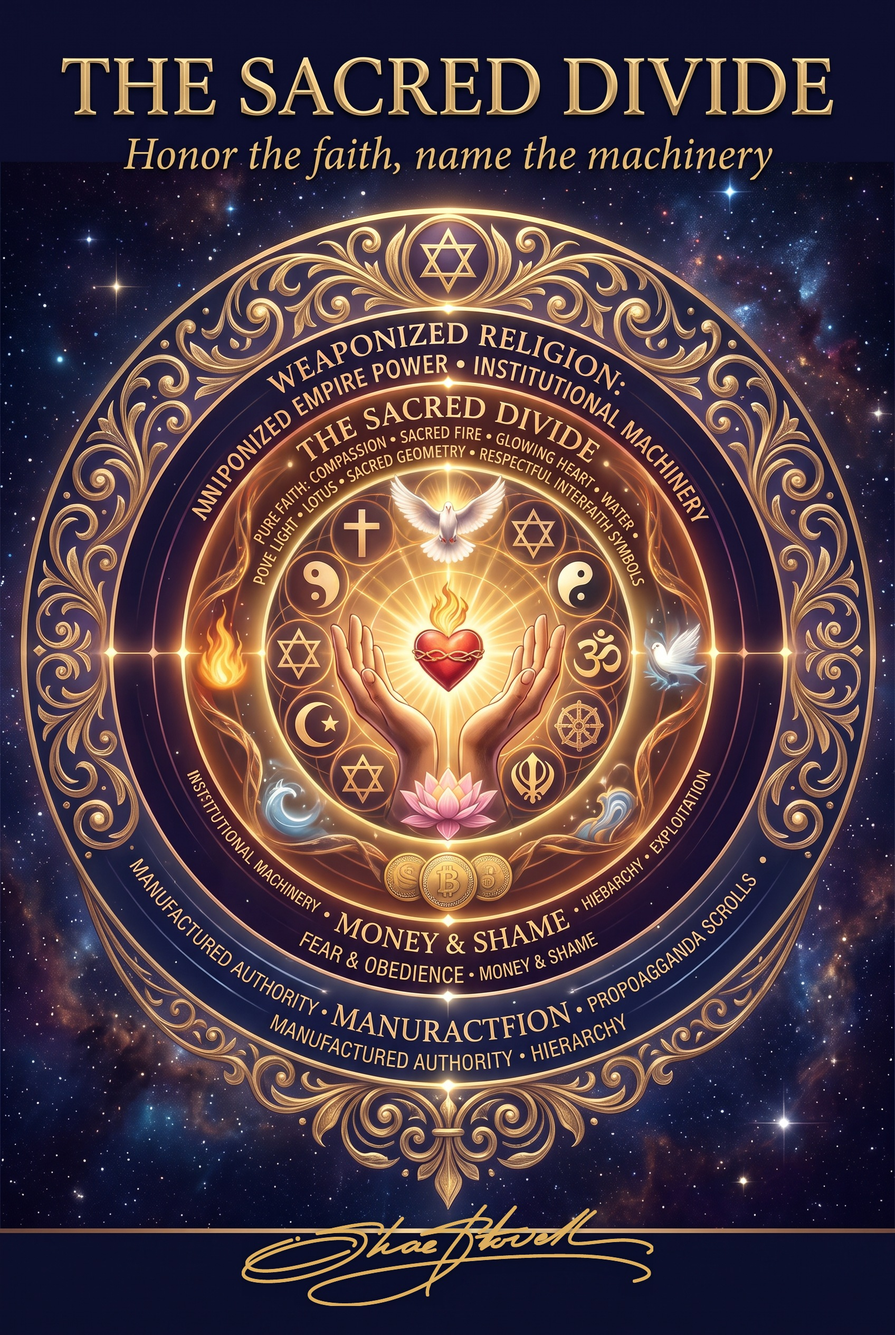
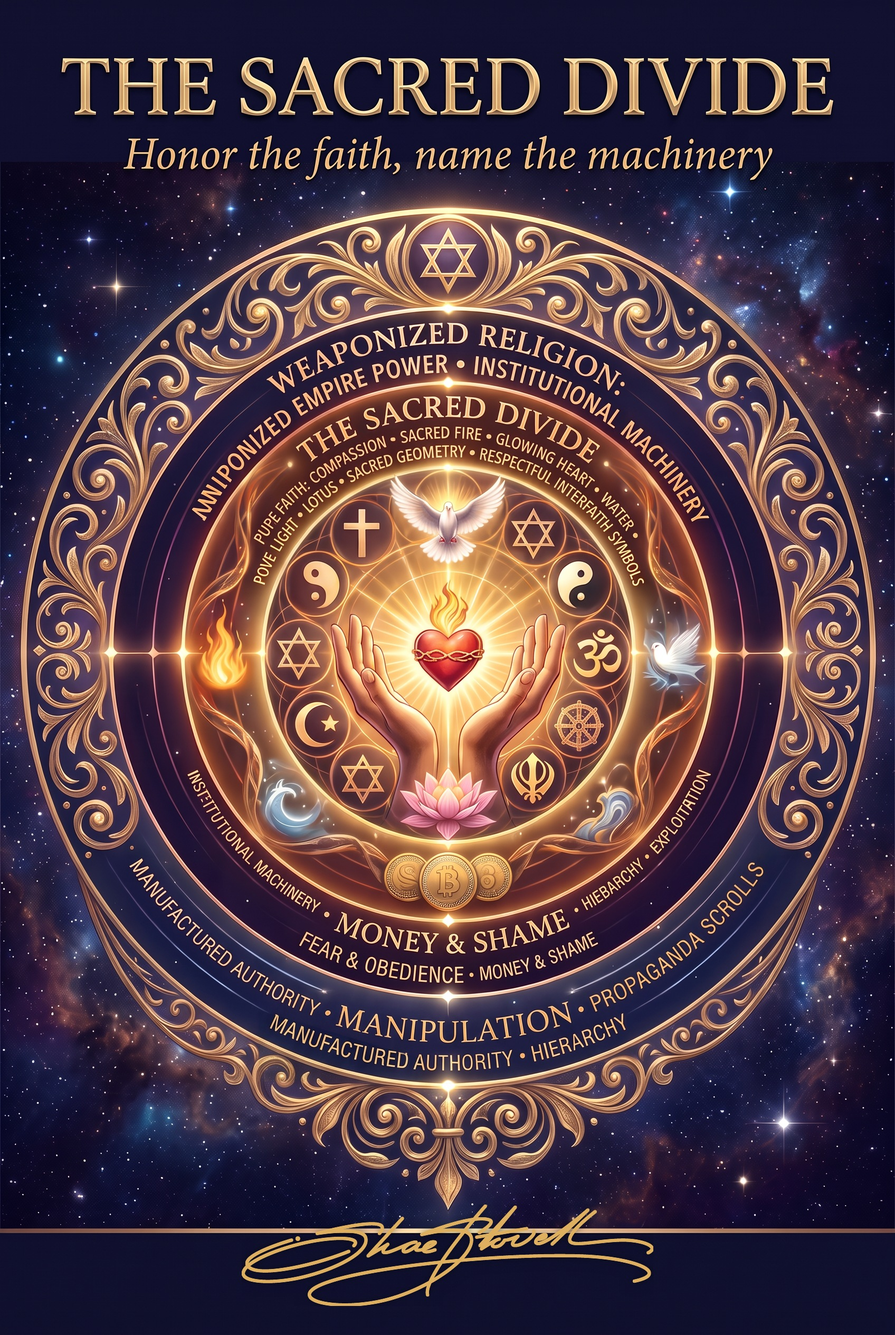
Sacred Divide cover: fix MANIPULATION/PROPAGANDA spelling
Claude-Session: https://claude.ai/code/session_013rW7R9MD6amAq91cgAxQWH

diff --git a/scripts/covers-sign-remade.py b/scripts/covers-sign-remade.py
@@ -1,10 +1,11 @@
 # Signature into the empty bottom band of the three Artlist remakes (Fractal, Fracture, Sacred Divide).
+# faith-b-final.png = Artlist text fix (MANIPULATION, PROPAGANDA) with the original 'MANUFACTURED' line pasted back locally.
 # Run from the repo root: python3 scripts/covers-sign-remade.py
 import cv2, numpy as np
 SIG = 'tools/brand/signature-shae-stovell.png'
 PICKS = {'07-fractal': ('fractal-b.png', (95, 175, 222)),    # BGR warm gold, like the title
          '08-fracture': ('fracture-a.png', (235, 235, 240)), # silver-white, like the title
-         '09-faith': ('faith-b.png', (95, 175, 222))}
+         '09-faith': ('faith-b-final.png', (95, 175, 222))}
 sig = cv2.imread(SIG, cv2.IMREAD_GRAYSCALE); a = 255 - sig
 ys, xs = np.where(a > 40); a = a[ys.min():ys.max()+1, xs.min():xs.max()+1]
 for out, (src, color) in PICKS.items():

diff --git a/MEMORY.md b/MEMORY.md
@@ -5081,5 +5081,5 @@ The owner was (fairly) angry that each fix shipped new faults. Standing rule fro
 - Visit counter (owner: option 1, on every page). Built, NOT injected into pages and NOT deployed: hub/netlify/functions/visits.mjs (GET /api/visits, Cloudflare total; BASELINE 750 before 2026-11-01; tested, returns 880) + hub/netlify.toml + scripts/visit-counter.py (idempotent; covers 1,292 pages). Blockers: (1) owner adds CF_API_TOKEN in Netlify; (2) 8 books plus the NFC guide promise readers "no analytics / it does not know you are here" (loop, scale, longafter, silence, atwill, repair, slowtake, faith; nfcguide). A visible counter there contradicts that text, so the owner must choose a wording change or skip those pages; (3) a deploy go-ahead for every site.
 - 2026-11-20 owner decision: Cloudflare beacon on EVERY page, visit counter on the HOMEPAGE ONLY (this replaces "counter on every page"). scripts/visit-counter.py now does both, idempotently. Applied in the repo: beacon added to hub, topics, longafter, silence, atwill, repair, slowtake and nfcguide (index + 404); the other 1,264 pages already had it. Homepage counter sits above the floating buttons (112px bottom padding). On-page update notes removed (build_hub.py strips #updates; build_site.py no longer inserts v16). verify-hub.mjs: all checks pass at 375/1440 and now checks no notes + counter + beacon. Not deployed: the 9 changed pages need a redeploy on the owner's word, and the counter needs CF_API_TOKEN in Netlify.
 - Covers (2026-11-20): owner's new cover set is in content/covers/original/ (+ covers.json). The owner's signature (tools/brand/signature-shae-stovell.png) replaced the printed author name on 12 covers with no AI credits: inpainted locally with OpenCV, signature tinted to each cover's lettering colour. Outputs in content/covers/signed/; scripts/covers-sign.py and covers-sign-festival.py (Festie Bible: fixed warm gold). Fractal, Fracture and Sacred Divide have no printed name. Their art is clipped at the left/right edges or square, and the owner stopped an Artlist (credit) remake, so that is still open.
-- Covers remade with Artlist (owner approved spending; 960 credits, Nano Banana Pro I2I 2K, 2 versions each, saved in the Artlist folder "Noble Father Covers"): Fractal, Fracture and Sacred Divide are now full 2:3 covers (1696x2528) with nothing cut off. Raw outputs in content/covers/remade/ (picked fractal-b, fracture-a, faith-b). The signature was added by scripts/covers-sign-remade.py into content/covers/signed/07-09. Known AI text flaws: Sacred Divide's lower ring reads "MANURACTFION" and "PROPOAGGANDA"; Fracture's small ring labels are partly garbled. Owner to decide on a fix pass.
+- Covers remade with Artlist (owner approved spending; 960 credits, Nano Banana Pro I2I 2K, 2 versions each, saved in the Artlist folder "Noble Father Covers"): Fractal, Fracture and Sacred Divide are now full 2:3 covers (1696x2528) with nothing cut off. Raw outputs in content/covers/remade/ (picked fractal-b, fracture-a, faith-b). The signature was added by scripts/covers-sign-remade.py into content/covers/signed/07-09. Sacred Divide text fixed (owner: the word is MANIPULATION; one 160-credit Artlist edit plus a local paste-back of the line it broke; faith-b-final.png). Fracture small garbled labels: owner said leave them.
 - All 15 covers + Root are now in content/covers/signed/ (signature on all).
